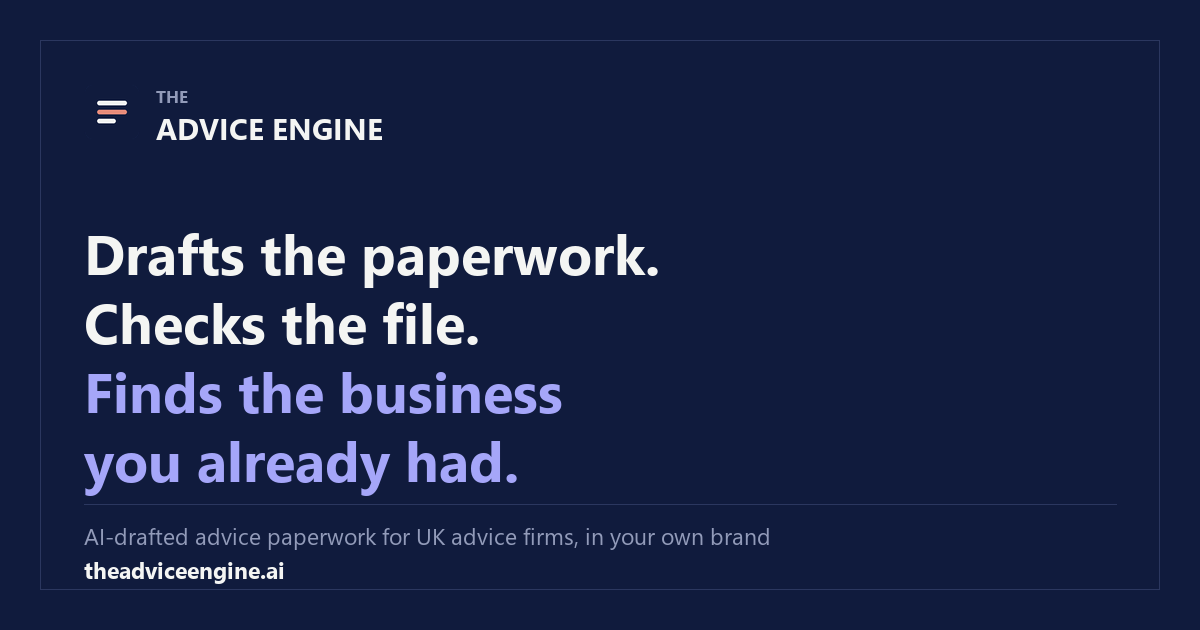
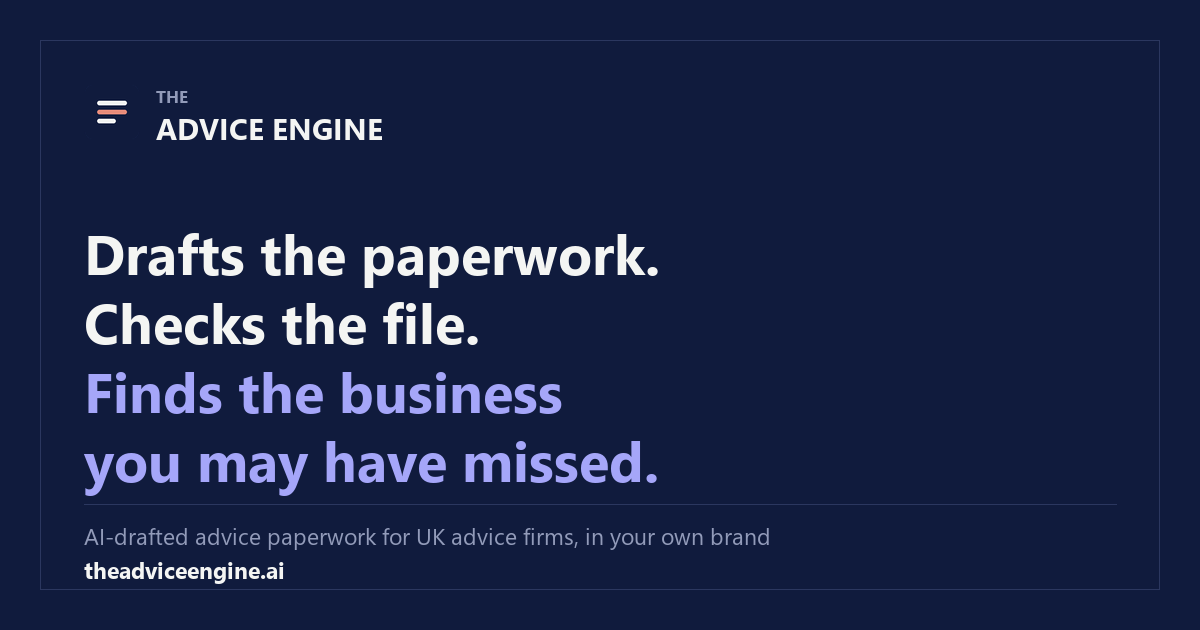
Hero line: 'Finds the business you may have missed'
Daren's call: 'you already had' was poor prose. Of his three candidates this is
the one that survives the house compliance rules - 'maximises your revenue' is
a performance claim and 'never miss an opportunity again' is an absolute
guarantee, both barred by the no-superlatives/no-guarantees rule. 'May have
missed' keeps the revenue story, hedged and factual. Applied to the homepage
hero, Open Graph alt text and the regenerated social card.

Changed region(s): [[0.1542, 0.6937, 0.555, 0.7841]]

diff --git a/index.html b/index.html
@@ -2,7 +2,7 @@
 <div class="topbar">Built inside the Quilter network · for UK advice firms</div>
 <header class="site-header"><nav class="nav container" aria-label="Main navigation"><a class="brand" href="index.html">The Advice <span>Engine</span></a><button class="menu-btn" aria-label="Open menu" aria-expanded="false">☰</button><div class="nav-links"><a href="quilter.html">For Quilter advisers</a><a href="#workflows">What it does</a><a href="find.html">Gap scanner</a><a href="#pricing">Pricing</a><a href="#security">Security</a><a class="btn btn-primary" href="mailto:hello@theadviceengine.ai?subject=Book%20a%20Test%20Drive">Book a Test Drive</a></div></nav></header>
 <main>
-<section class="hero"><div class="container hero-grid"><div class="hero-copy"><div class="eyebrow">Built inside the Quilter network · for UK advice firms</div><h1>Drafts the paperwork. Checks the file. Finds the business you already had.</h1><p class="lede">The Advice Engine drafts, checks and organises the documents your firm produces every day — in your brand, from your own client files.</p><p class="muted">Built inside a regulated UK advice firm and used on real cases every day.</p><div class="hero-actions"><a class="btn btn-primary" href="mailto:hello@theadviceengine.ai?subject=Book%20a%20Test%20Drive">Book a Test Drive →</a><a class="btn btn-secondary" href="#pricing">See pricing</a></div><p class="fineprint">Four facts about a fictitious client in, a full specimen report out — through the real pipeline, before any live case goes near it.</p></div>
+<section class="hero"><div class="container hero-grid"><div class="hero-copy"><div class="eyebrow">Built inside the Quilter network · for UK advice firms</div><h1>Drafts the paperwork. Checks the file. Finds the business you may have missed.</h1><p class="lede">The Advice Engine drafts, checks and organises the documents your firm produces every day — in your brand, from your own client files.</p><p class="muted">Built inside a regulated UK advice firm and used on real cases every day.</p><div class="hero-actions"><a class="btn btn-primary" href="mailto:hello@theadviceengine.ai?subject=Book%20a%20Test%20Drive">Book a Test Drive →</a><a class="btn btn-secondary" href="#pricing">See pricing</a></div><p class="fineprint">Four facts about a fictitious client in, a full specimen report out — through the real pipeline, before any live case goes near it.</p></div>
 <div class="ui-shell" aria-label="Fictitious product interface specimen"><div class="ui-top"><div><strong>The Advice Engine</strong> <span class="tag">fictitious specimen</span></div><div class="dots"><span class="dot"></span><span class="dot"></span><span class="dot"></span></div></div><div class="ui-grid"><div class="ui-panel"><div class="ui-label">Adviser dashboard</div><div class="workflow-row"><span>First meeting pack</span><span class="status">Drafted</span></div><div class="workflow-row"><span>Suitability report</span><span class="status">Drafted</span></div><div class="workflow-row"><span>Annual review pack</span><span class="status review">In review</span></div><div class="workflow-row"><span>LOA – provider request</span><span class="status">Drafted</span></div><p class="small muted" style="margin-top:24px">Recent activity</p><div class="activity-row"><span>Mrs J. Smith · Annual review</span><span>10:24</span></div><div class="activity-row"><span>Dr A. Patel · First meeting</span><span>09:41</span></div></div><div class="ui-panel"><div class="ui-label">Advice gap scan · specimen</div><div class="gap-card"><strong>1 gap flagged</strong><div class="small muted">Source — annual review meeting transcript, 14 Mar 2026</div></div><div class="quote">“...there's the little pension from the Marconi days, I've honestly never touched it, I couldn't tell you what's in it.”</div><div class="warning"><strong>Legacy scheme mentioned once, never traced</strong><br>Raised by the client, not carried into the review outcome.</div><div class="next-step"><strong>Suggested next step</strong><br>Add to the agenda for the next meeting. An LOA and provider information request can be drafted from this file.</div><p class="small muted">Quote verified. This is an agenda for a conversation — not advice, and not a review of past advice.</p></div></div></div></div></section>
 <section class="trust-strip"><div class="container trust-grid"><div class="trust-item"><div class="icon">✓</div><div>Built and used daily inside a Quilter-network firm</div></div><div class="trust-item"><div class="icon">Aa</div><div>Your brand, your approved wording</div></div><div class="trust-item"><div class="icon">0</div><div>No client data retained</div></div><div class="trust-item"><div class="icon">UK</div><div>UK-hosted · Microsoft sign-in · MFA</div></div></div></section>
 <section class="section" id="workflows"><div class="container"><div class="section-head"><div><div class="eyebrow">What it does</div><h2>Twelve workflows, from first meeting to annual review</h2></div><p class="muted">All included for every adviser, paraplanner and administrator in the firm. No per-module maths.</p></div><div class="cards-4"><a class="card" href="suitability.html"><div class="icon">✎</div><h3>Draft</h3><p>Suitability reports, annual review packs and first-meeting packs, produced from your case pack in your firm's own styling.</p></a><a class="card" href="compliance.html"><div class="icon">✓</div><h3>Check</h3><p>File-check-shaped compliance review and financial promotion pre-vetting before material reaches the approvals team.</p></a><a class="card" href="find.html"><div class="icon">⌕</div><h3>Find</h3><p>Advice gap scanning and source-attributed client fact extraction from the files you already hold.</p></a><a class="card" href="organise.html"><div class="icon">↗</div><h3>Organise</h3><p>Fee authority forms, letters of authority, provider requests, protection tools and one front door for the work.</p></a></div></div></section>

diff --git a/assets/make_brand_assets.py b/assets/make_brand_assets.py
@@ -66,7 +66,7 @@ def make_og():
         ("Drafts the paperwork.", PAPER),
         ("Checks the file.", PAPER),
         ("Finds the business", SIGN),
-        ("you already had.", SIGN),
+        ("you may have missed.", SIGN),
     ]
     y = 214
     for text, col in lines:
